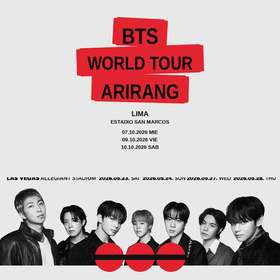
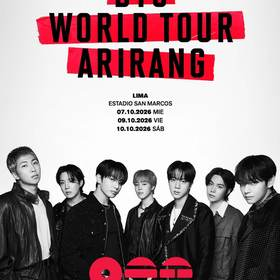
Use the real Lima poster and a shorter ticket cover

diff --git a/app.js b/app.js
@@ -8,8 +8,8 @@ const TICKETS = [
     venue: "Estadio San Marcos",
     city: "Lima, Perú",
     month: "Octubre 2026",
-    image: "posters/lima-arirang.jpg",
-    thumb: "posters/lima-arirang-thumb.jpg",
+    image: "posters/lima-arirang.jpg?v=2",
+    thumb: "posters/lima-arirang-thumb.jpg?v=2",
     dateLabel: "Sáb, 10 oct 2026",
     timeLabel: "20:00",
     section: "Tribuna Sur",
@@ -31,8 +31,8 @@ const TICKETS = [
     venue: "Estadio Único de La Plata",
     city: "La Plata, Argentina",
     month: "Octubre 2026",
-    image: "posters/argentina-arirang.jpg",
-    thumb: "posters/argentina-arirang-thumb.jpg",
+    image: "posters/argentina-arirang.jpg?v=2",
+    thumb: "posters/argentina-arirang-thumb.jpg?v=2",
     dateLabel: "Sáb, 24 oct 2026",
     timeLabel: "20:00",
     section: "Cabecera Norte",

diff --git a/index.html b/index.html
@@ -13,10 +13,10 @@
   <link rel="apple-touch-icon" sizes="180x180" href="https://emma-dev4.github.io/quentro-clonee/apple-touch-icon.png" />
   <link rel="apple-touch-icon-precomposed" href="https://emma-dev4.github.io/quentro-clonee/apple-touch-icon-precomposed.png" />
   <link rel="manifest" href="manifest.webmanifest" />
-  <link rel="stylesheet" href="style.css?v=13" />
+  <link rel="stylesheet" href="style.css?v=14" />
 </head>
 <body>
   <div id="app"></div>
-  <script src="app.js?v=13"></script>
+  <script src="app.js?v=14"></script>
 </body>
 </html>

diff --git a/style.css b/style.css
@@ -277,8 +277,8 @@ a { color: inherit; text-decoration: none; }
   color: var(--paper-fg);
 }
 .pass-photo {
-  height: 420px;
-  background: #e8e8e8;
+  height: 210px;
+  background: #fff;
   position: relative;
 }
 .pass-photo img {
@@ -287,7 +287,7 @@ a { color: inherit; text-decoration: none; }
   width: 100%;
   height: 100%;
   object-fit: contain;
-  object-position: center;
+  object-position: center top;
 }
 .accent-bar {
   height: 4px;
